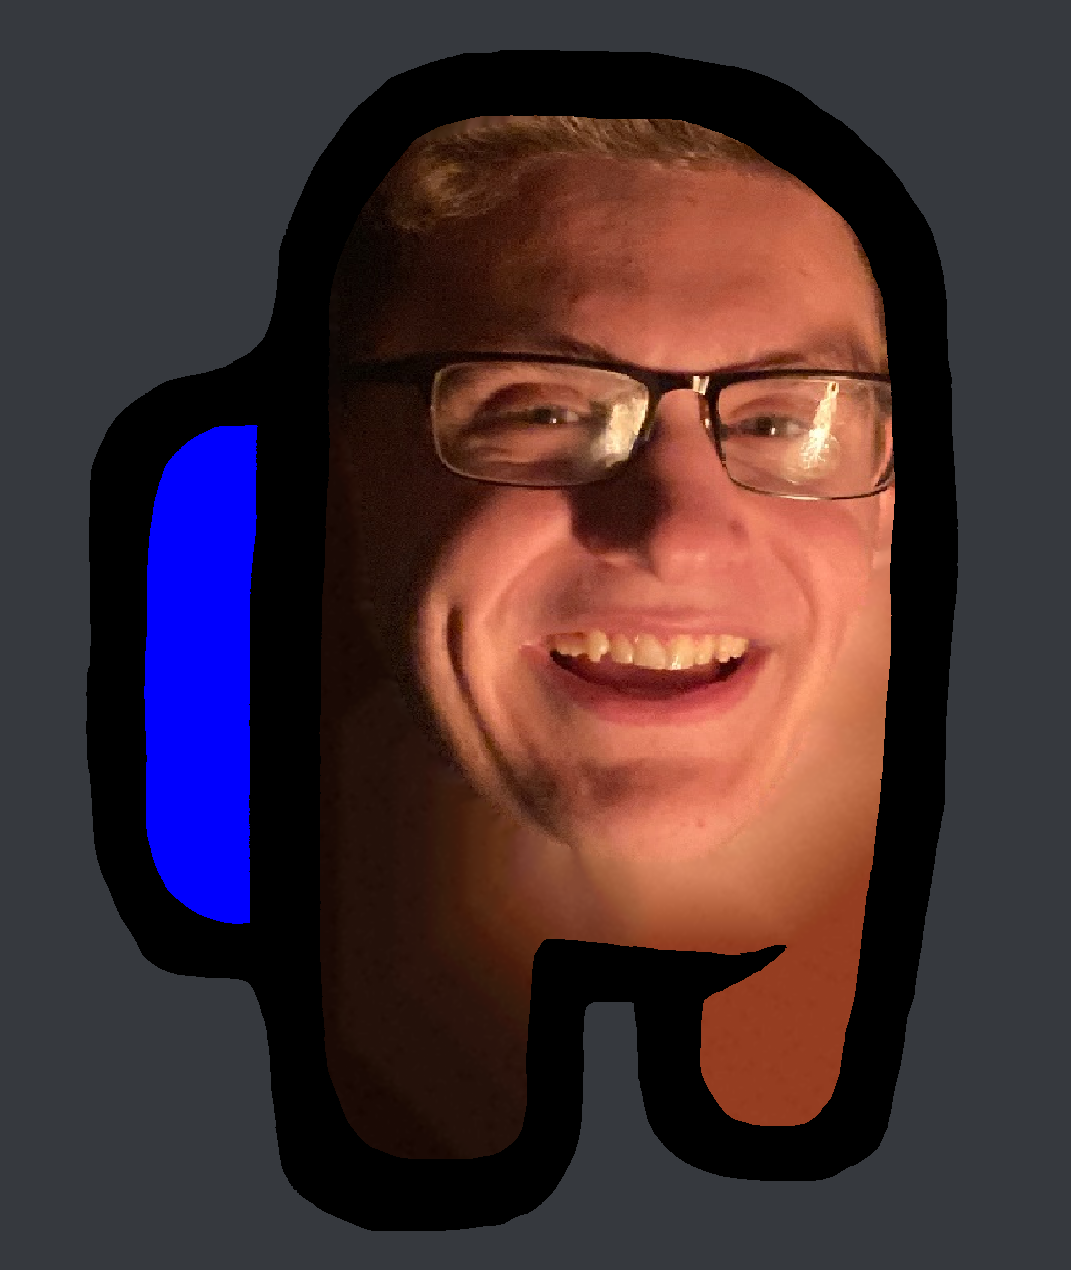
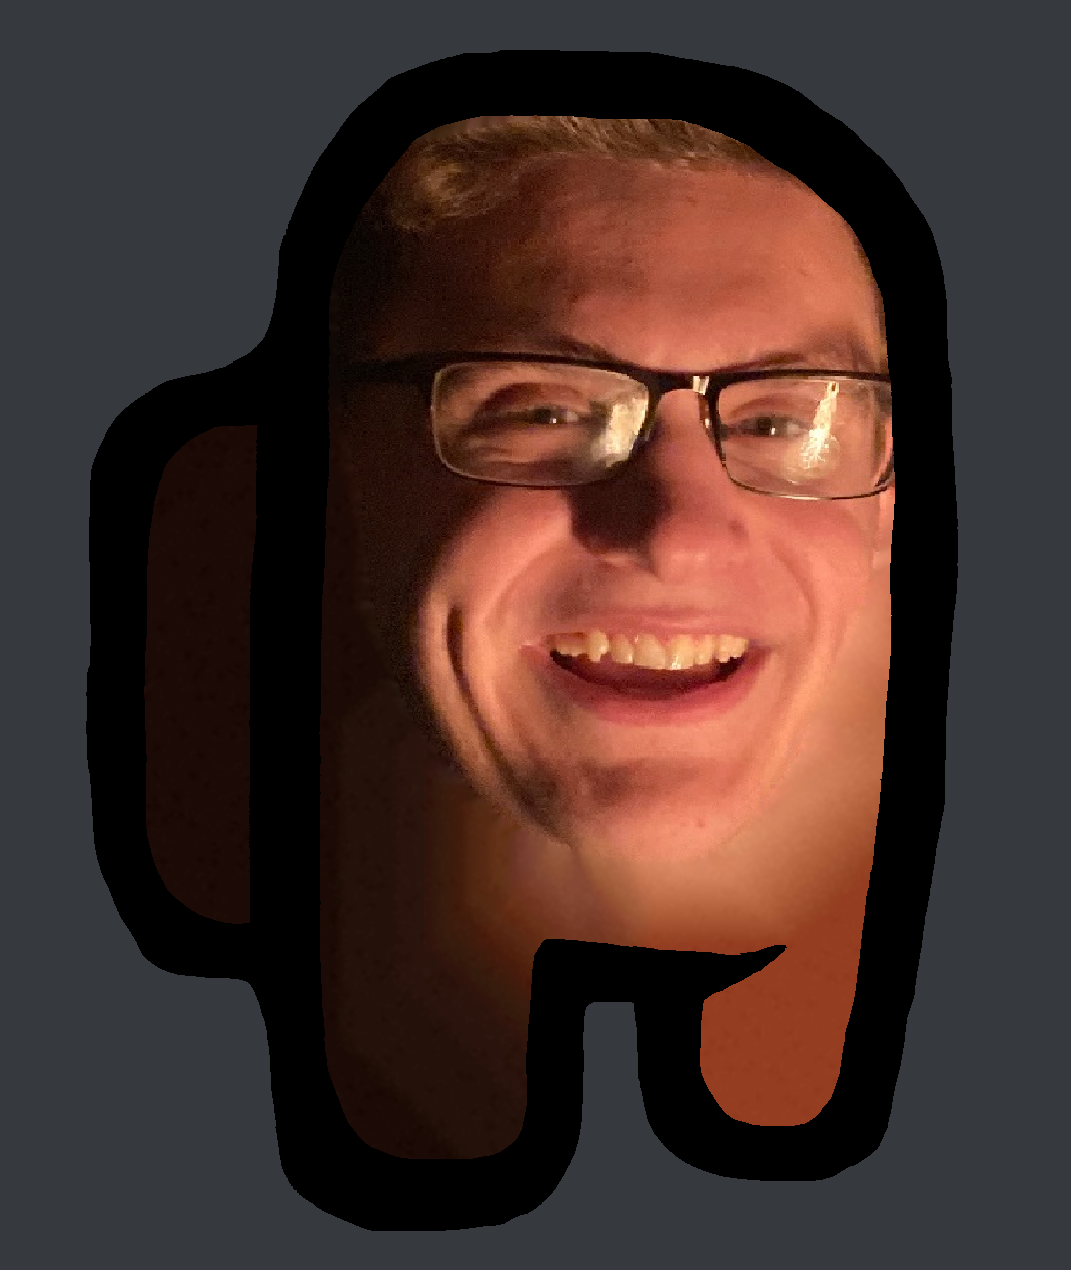
Add backpack shading

Changed region(s): [[0.1232, 0.3378, 0.2465, 0.737]]

diff --git a/src/data/Amongifier.java b/src/data/Amongifier.java
@@ -18,6 +18,8 @@ public class Amongifier {
      */
     private static HashSet<Point> faceSet = new HashSet<>();
     private static HashSet<Point> greenSet = new HashSet<>();
+    private static HashSet<Point> backpackSet = new HashSet<>();
+    private static HashSet<Point> blueSet = new HashSet<>();
     private static HashSet<Point> extrapolatedPixels = new HashSet<>();
     private static Queue<Point> definitePixels = new ArrayDeque<>();
     private static BufferedImage pastedTemplate;
@@ -75,6 +77,14 @@ public class Amongifier {
             }
         }
 
+        for (int i = 0; i < template.getWidth(); i++) {
+            for (int j = 0; j < template.getHeight(); j++) {
+                if (getColorAt(template, i, j, false).getBlue() == 255) {
+                    blueSet.add(new Point(i, j));
+                }
+            }
+        }
+
         num = 0;
         int faceX = 0, faceY = 0, num2 = 0;
         for (int i = midPixel.x - faceImage.getWidth() / 2; i < midPixel.x + faceImage.getWidth() / 2; i++) {
@@ -119,7 +129,7 @@ public class Amongifier {
         System.out.println("Pasting Complete. Beginning Extrapolation...");
 
         extrapolate();
-        
+
         for (int i = 0; i < 5; i++) {
             addNoise(.01);
             smooth(0);
@@ -203,12 +213,88 @@ public class Amongifier {
 
                 if (badLoops > 10) {
                     System.out.println("Stuck with " + greenSet.size() + " pixels remaining.");
-                } else {
-                    // System.out.println("Bad :(");
                 }
-
             }
         }
+
+        // Fill in blue space
+        for (int j = 0; j < pastedTemplate.getHeight(); j++) {
+            int blueIndex = -1;
+            for (int i = 0; i < pastedTemplate.getWidth(); i++) {
+                Color faceColor = getColorAt(pastedTemplate, i, j, false);
+
+                if (blueSet.contains(new Point(i, j))) {
+                    blueIndex = i;
+                }
+            }
+            if (blueIndex >= 0) {
+                // Find first face pixel, copy color over
+                Color copiedColor = new Color(0, 0, 0);
+                for (int i = blueIndex; i < pastedTemplate.getWidth(); i++) {
+                    if (faceSet.contains(new Point(i, j))) {
+                        copiedColor = getColorAt(pastedTemplate, i, j, false);
+                        break;
+                    }
+                }
+                g2d.setColor(copiedColor);
+                backpackSet.add(new Point(blueIndex, j));
+                blueSet.remove(new Point(blueIndex, j));
+                g2d.drawRect(blueIndex, j, 0, 0);
+            }
+        }
+
+        definitePixels.clear();
+        badLoops = 0;
+
+        lastPrint = blueSet.size();
+
+        System.out.println("Starting backpack extrapolation...");
+
+        // Extrapolate blue set
+        while (blueSet.size() > 0) {
+            Point nextPoint = definitePixels.poll();
+
+            for (Point p : blueSet) {
+                if (nextPoint != null)
+                    break;
+
+                if (numFilledPixels(p) >= (badLoops >= 2 ? 1 : minPointCount())) {
+                    nextPoint = p;
+                    if (threeEighths)
+                        threeEighths = false;
+                }
+            }
+
+            if (nextPoint != null) {
+                badLoops = 0;
+
+                if (lastPrint - blueSet.size() >= 25000) {
+                    System.out.println(blueSet.size() + " pixels remaining.");
+                    lastPrint = blueSet.size();
+                }
+                g2d.setColor(averageColor(nextPoint));
+                g2d.drawRect(nextPoint.x, nextPoint.y, 0, 0);
+
+                backpackSet.add(nextPoint);
+                blueSet.remove(nextPoint);
+                extrapolatedPixels.add(nextPoint);
+
+                ArrayList<Point> attemptPoint = getAllAdjacentPoints(nextPoint);
+                definitePixels.addAll(attemptPoint);
+            }
+
+            else {
+                badLoops++;
+
+                // If it reaches this point, that's fine! Just have to search for 3/8 next time.
+                threeEighths = true;
+
+                if (badLoops > 10) {
+                    System.out.println("Stuck with " + greenSet.size() + " pixels remaining.");
+                }
+            }
+        }
+
         g2d.dispose();
     }
 
@@ -225,8 +311,12 @@ public class Amongifier {
         Graphics2D g2d = pastedTemplate.createGraphics();
         HashMap<Point, Color> colorMap = new HashMap<>();
 
+        HashSet<Point> smoothSet = new HashSet<>();
+        smoothSet.addAll(originalGreenSet);
+        smoothSet.addAll(backpackSet);
+
         System.out.println("Pixels to smooth: " + originalGreenSet.size());
-        for (Point p : originalGreenSet) {
+        for (Point p : smoothSet) {
             Color avg = averageColor(p);
             Color oldColor = getColorAt(pastedTemplate, p.x, p.y, false);
 
@@ -258,7 +348,7 @@ public class Amongifier {
         for (int y = 0; y < pastedTemplate.getHeight(); y++) {
             for (int x = 0; x < pastedTemplate.getWidth(); x++) {
                 noiseMatrix[x][y] = ((noise.eval(x / (pastedTemplate.getHeight() / 400),
-                        y / (pastedTemplate.getHeight() / 400), 0.0))+1)/2;
+                        y / (pastedTemplate.getHeight() / 400), 0.0)) + 1) / 2;
             }
         }
 
@@ -273,10 +363,15 @@ public class Amongifier {
             blue += c.getBlue();
             colors++;
         }
-        //Color averageColor = new Color((int) (red / colors), (int) (green / colors), (int) (blue / colors));
-        Color averageColor = new Color(255,255,255);
+        // Color averageColor = new Color((int) (red / colors), (int) (green / colors),
+        // (int) (blue / colors));
+        Color averageColor = new Color(255, 255, 255);
 
-        for (Point p : originalGreenSet) {
+        HashSet<Point> noiseSet = new HashSet<Point>();
+        noiseSet.addAll(originalGreenSet);
+        noiseSet.addAll(backpackSet);
+
+        for (Point p : noiseSet) {
 
             Color oldColor = getColorAt(pastedTemplate, p.x, p.y, false);
             int r = Helper.clamp((int) (Math.round(oldColor.getRed() * (1 - degree))
@@ -285,8 +380,8 @@ public class Amongifier {
                     + Math.round(averageColor.getGreen() * degree * noiseMatrix[p.x][p.y])), 0, 255);
             int b = Helper.clamp((int) (Math.round(oldColor.getBlue() * (1 - degree))
                     + Math.round(averageColor.getBlue() * degree * noiseMatrix[p.x][p.y])), 0, 255);
-            
-            Color weightedColor = new Color(r,g,b);
+
+            Color weightedColor = new Color(r, g, b);
             g2d.setColor(weightedColor);
             g2d.drawRect(p.x, p.y, 0, 0);
         }
@@ -299,7 +394,7 @@ public class Amongifier {
 
         int num = 0;
         for (Point point : pointsOfInterest) {
-            if (faceSet.contains(point))
+            if (faceSet.contains(point) || backpackSet.contains(point))
                 num++;
         }
         return num;
@@ -315,7 +410,7 @@ public class Amongifier {
         ArrayList<Color> colors = new ArrayList<Color>();
         Point[] pointsOfInterest = getPointsOfInterest(p);
         for (Point point : pointsOfInterest) {
-            if (faceSet.contains(point)) {
+            if (faceSet.contains(point) || backpackSet.contains(point)) {
                 colors.add(getColorAt(pastedTemplate, point.x, point.y, false));
             }
         }
@@ -346,7 +441,7 @@ public class Amongifier {
     private static Point attemptAdjacentPoints(Point p) {
         Point[] pointsOfInterest = getPointsOfInterest(p);
         for (Point point : pointsOfInterest) {
-            if (greenSet.contains(point) && numFilledPixels(point) >= minPointCount()) {
+            if ((greenSet.contains(point) || blueSet.contains(point)) && numFilledPixels(point) >= minPointCount()) {
                 return point;
             }
         }
@@ -367,7 +462,7 @@ public class Amongifier {
 
         ArrayList<Point> goodPoints = new ArrayList<>();
         for (Point point : pointsOfInterest) {
-            if (greenSet.contains(point) && numFilledPixels(point) >= minPointCount()
+            if ((greenSet.contains(point) || blueSet.contains(point)) && numFilledPixels(point) >= minPointCount()
                     && !definitePixels.contains(point)) {
                 goodPoints.add(point);
             }
